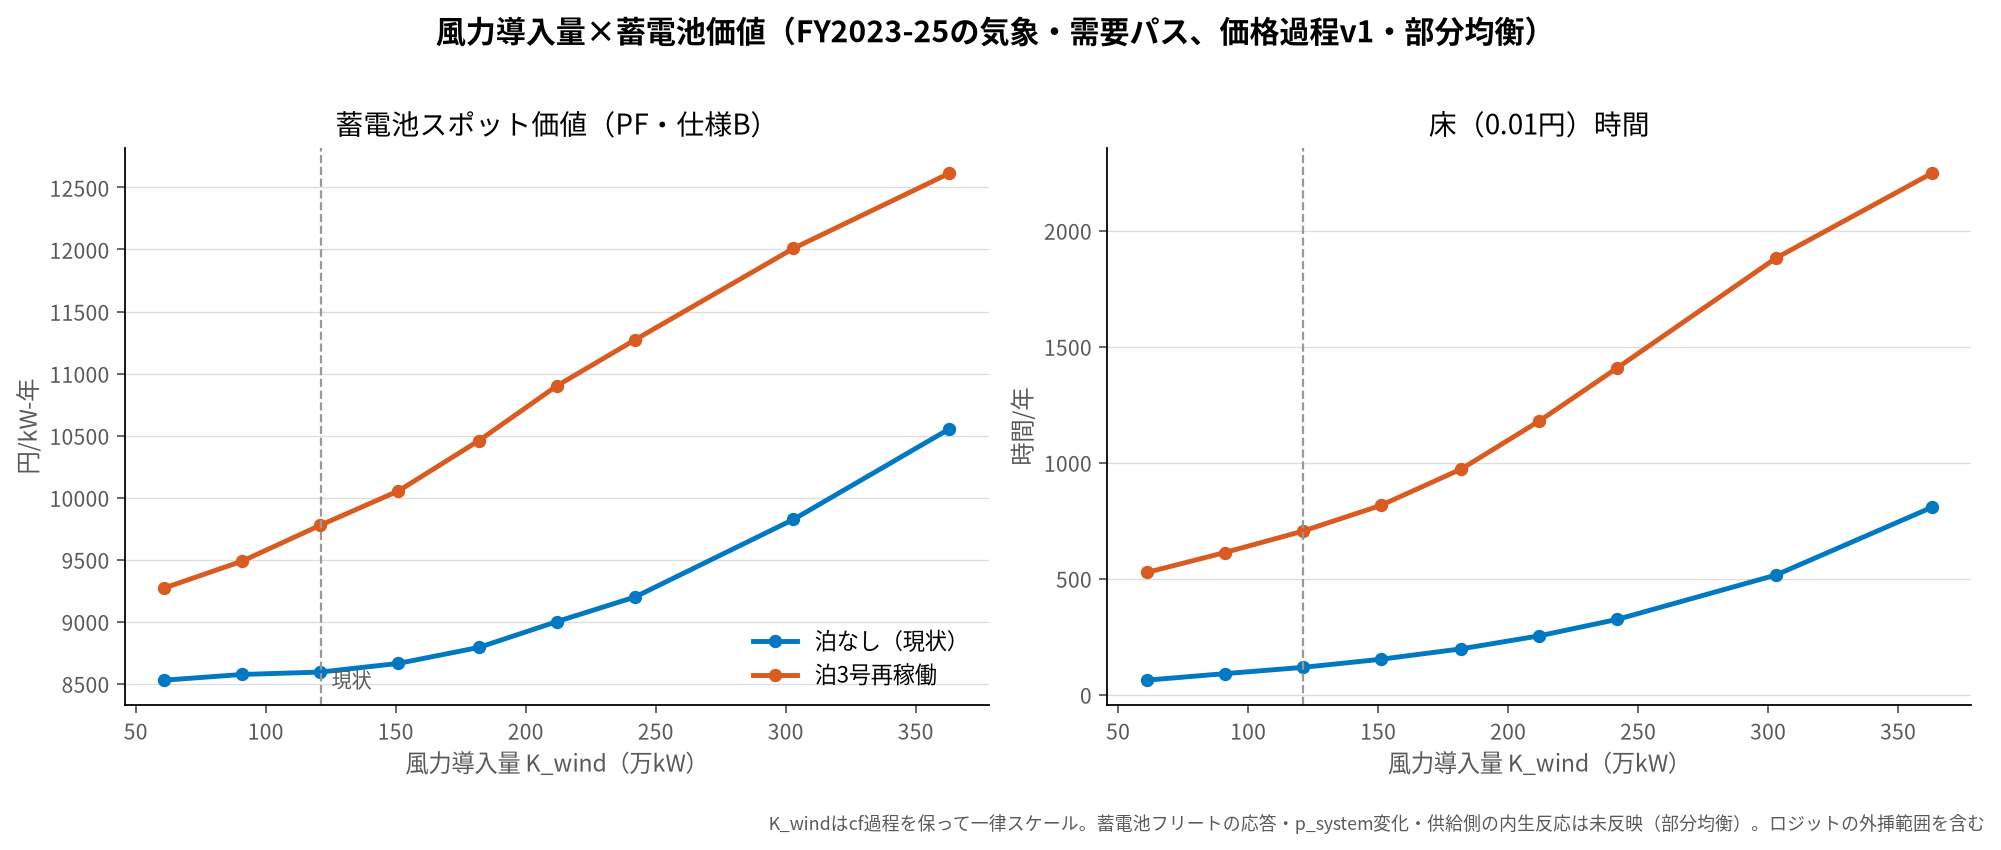
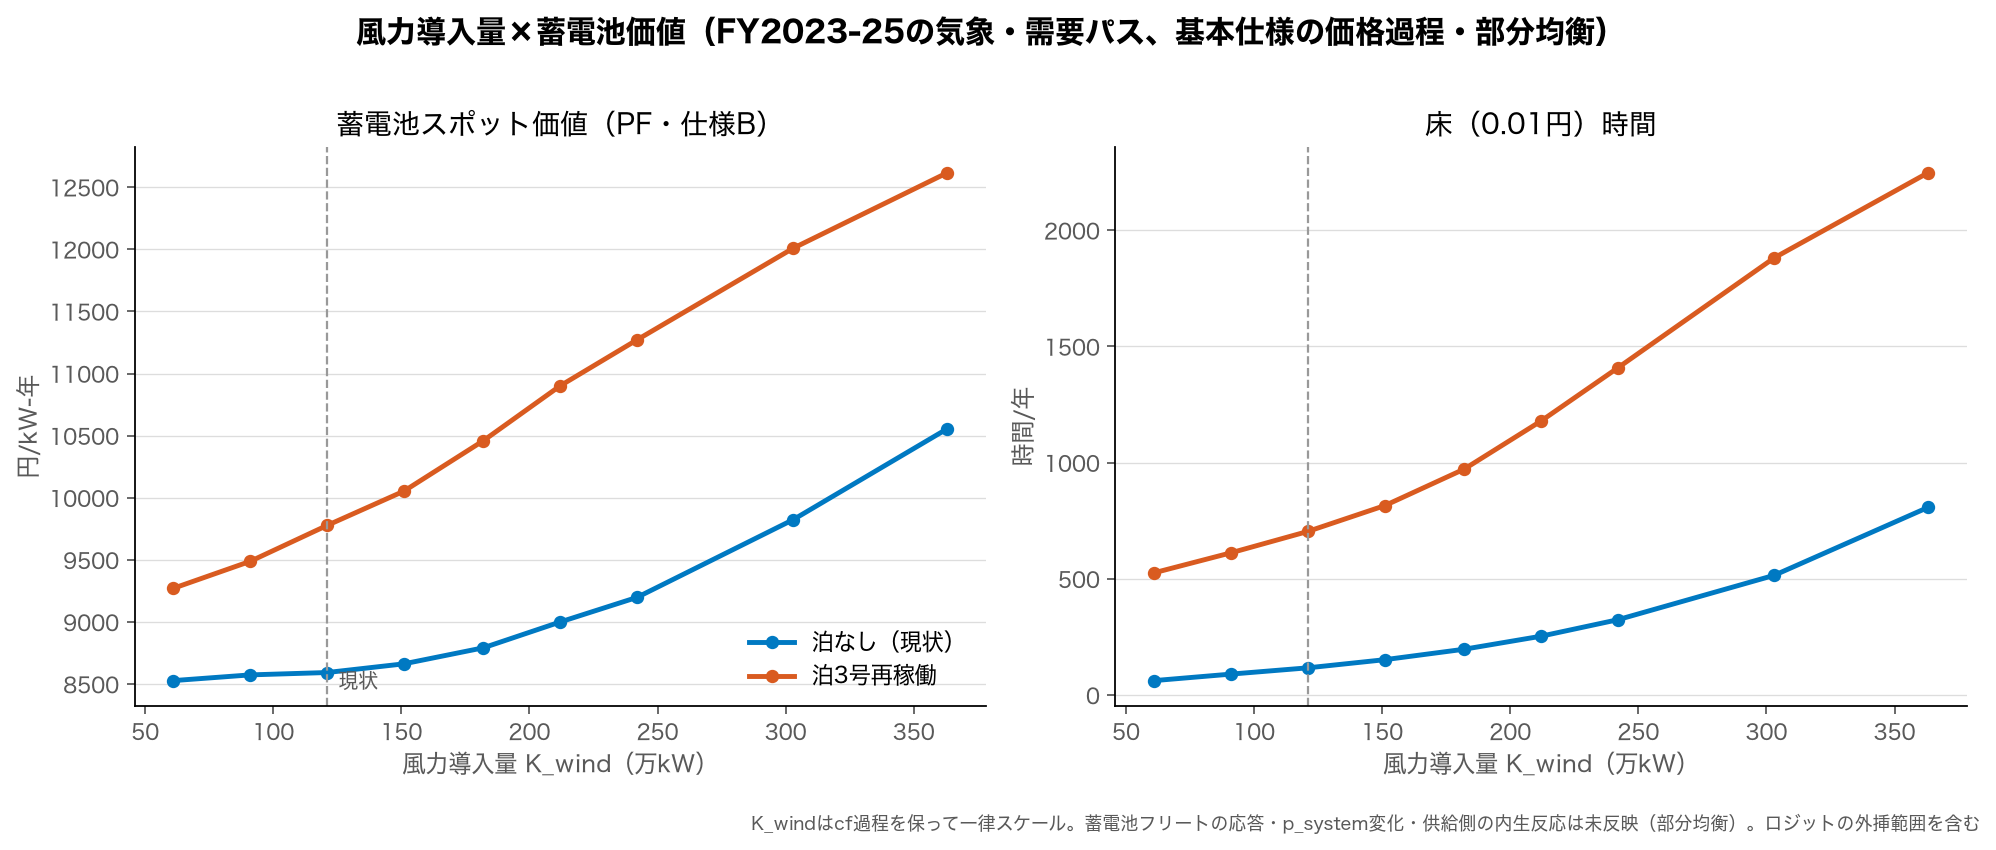
図の見出しに残っていた使用禁止の造語を置換して再描画（図8.1〜8.4・6.5・9.1）
- 「純市場」→マーチャント、「政策層」→市場外収入に依存する容量、「break-even フロンティア」→損益分岐面、「均衡面」→2次元の感応度面、「供給曲線v2／価格過程v1」→水準係数付き／基本仕様の価格過程、「裾補正」→裾の補正
- CSV と図表データ.xlsx は据え置き（ローカル環境では π(K) の K>0 で貪欲ディスパッチの同点処理により数円〜最大98円の差が出るため、原稿の表と一致するコミット済みの値を維持。図上の差は視認できない水準）

diff --git a/thesis/analysis/28_equilibrium_surface.py b/thesis/analysis/28_equilibrium_surface.py
@@ -212,13 +212,13 @@ ax.axhline(22_000, color="#999999", lw=1.2, ls="--"); ax.text(2, 22_300, "参入
 ax.axhline(19_500, color="#999999", lw=1.2, ls=":"); ax.text(2, 19_800, "同（楽観: 1.95万円）", fontsize=9, color="#666666")
 ax.set_xlabel("蓄電池フリート容量 K（万kW、4h）", fontsize=11, color=GRAY)
 ax.set_ylabel("限界参入者の実現可能スポット収益 π(K)（円/kW-年）", fontsize=11, color=GRAY)
-ax.set_title("均衡面 π(K; K_wind) — 風力3倍でも純市場の K*=0（実線: 泊なし、破線: 泊3号再稼働）", fontsize=12.5, fontweight="bold", pad=12)
+ax.set_title("2次元の感応度面 π(K; K_wind) — 風力3倍でもマーチャントの K*=0（実線: 泊なし、破線: 泊3号再稼働）", fontsize=12.5, fontweight="bold", pad=12)
 ax.grid(axis="y", color="#DDDDDD", lw=0.6)
 for sp_ in ("top", "right"):
     ax.spines[sp_].set_visible(False)
 ax.tick_params(colors=GRAY)
 ax.legend(fontsize=9.5, frameon=False, loc="center right")
-fig.text(0.99, 0.005, "供給曲線v2（θ=1）・FY2023-25パス・capture0.81・充電従量1.2円/kWh控除・増分貪欲ディスパッチ（10万kW刻み）", ha="right", fontsize=7.5, color=GRAY)
+fig.text(0.99, 0.005, "水準係数付き価格過程（θ=1）・FY2023-25パス・capture0.81・充電従量1.2円/kWh控除・増分貪欲ディスパッチ（10万kW刻み）", ha="right", fontsize=7.5, color=GRAY)
 fig.tight_layout()
 fig.savefig(os.path.join(FIGDIR, "equilibrium_surface.png"), dpi=160, bbox_inches="tight")
 
@@ -236,7 +236,7 @@ ax.scatter([6.8], [1.25], color="#D95B20", s=70, zorder=5); ax.text(6.75, 1.4, "
 ax.scatter([2.3], [1.25], color="#176871", s=60, zorder=5); ax.text(2.35, 1.4, "揚水並み2.3万円/kWh", fontsize=9, color="#176871")
 ax.set_xlabel("蓄電池の資本費（万円/kWh、4h）", fontsize=11, color=GRAY)
 ax.set_ylabel("実効容量収入 κ·P_cap（万円/kW-年）", fontsize=11, color=GRAY)
-ax.set_title("break-even フロンティア — 純市場参入（K*>0）に必要な価格水準係数 θ*（WACC 6%）", fontsize=12.5, fontweight="bold", pad=12)
+ax.set_title("損益分岐面 — マーチャント参入（K*>0）に必要な価格水準係数 θ*（WACC 6%）", fontsize=12.5, fontweight="bold", pad=12)
 ax.tick_params(colors=GRAY)
 fig.text(0.99, 0.005, "θ* = (c_req − κP_cap + 充電従量負担) ÷ (capture 0.81 × π_PF(0) 8,265円)。c_req = 4h資本費×CRF(6%,20年)+運維0.53万+託送固定0.69万", ha="right", fontsize=7.5, color=GRAY)
 fig.tight_layout()

diff --git a/thesis/analysis/18_kwind_sweep.py b/thesis/analysis/18_kwind_sweep.py
@@ -83,7 +83,7 @@ for ax, ttl, yl in [(ax1, "蓄電池スポット価値（PF・仕様B）", "円/
 ax1.annotate("現状", (K_WIND_NOW, ax1.get_ylim()[0]), xytext=(5, 8),
              textcoords="offset points", fontsize=9, color=GRAY)
 ax1.legend(fontsize=10, frameon=False, loc="lower right")
-fig.suptitle("風力導入量×蓄電池価値（FY2023-25の気象・需要パス、価格過程v1・部分均衡）",
+fig.suptitle("風力導入量×蓄電池価値（FY2023-25の気象・需要パス、基本仕様の価格過程・部分均衡）",
              fontsize=13.5, fontweight="bold", y=1.02)
 fig.text(0.995, -0.04,
          "K_windはcf過程を保って一律スケール。蓄電池フリートの応答・p_system変化・供給側の内生反応は未反映（部分均衡）。ロジットの外挿範囲を含む",
